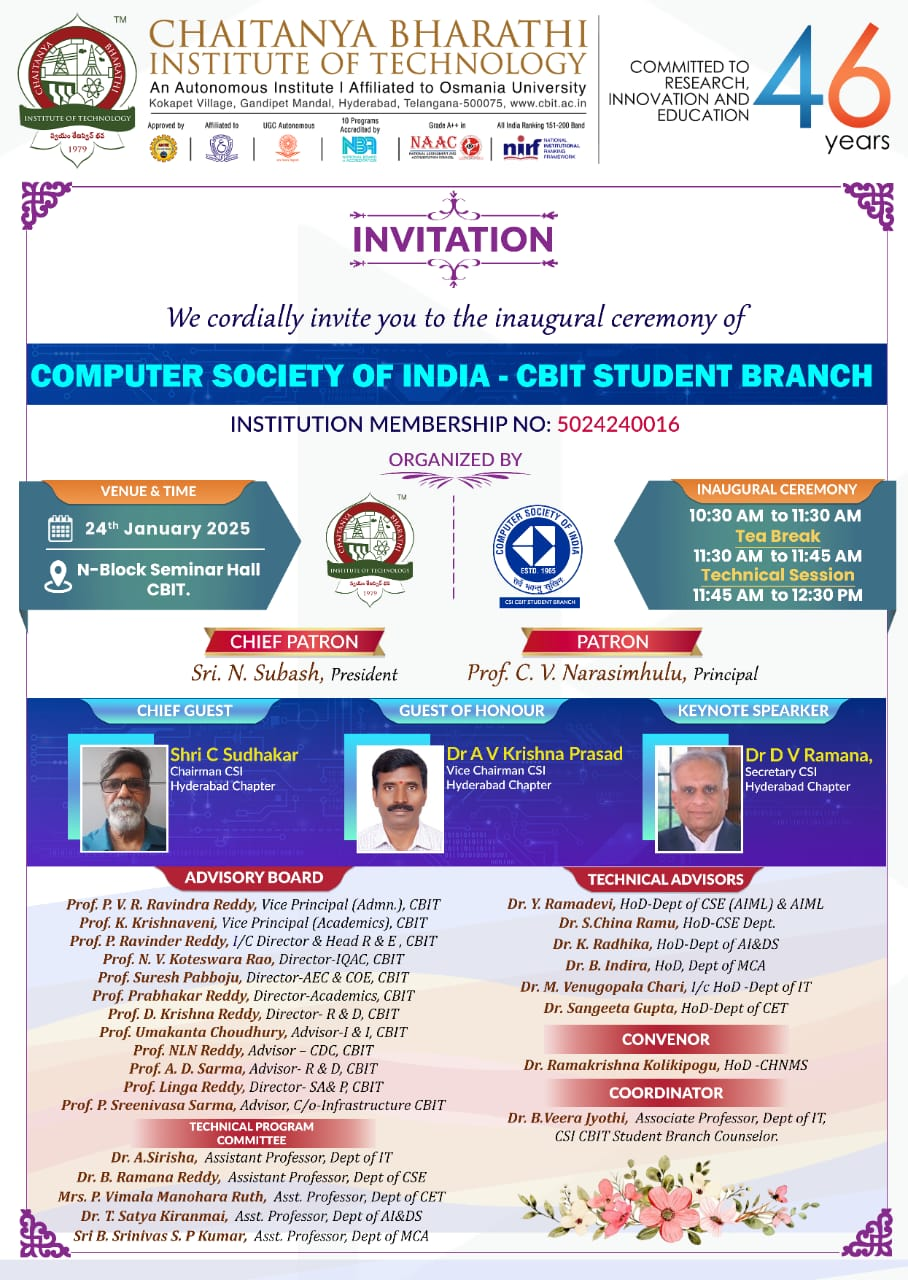
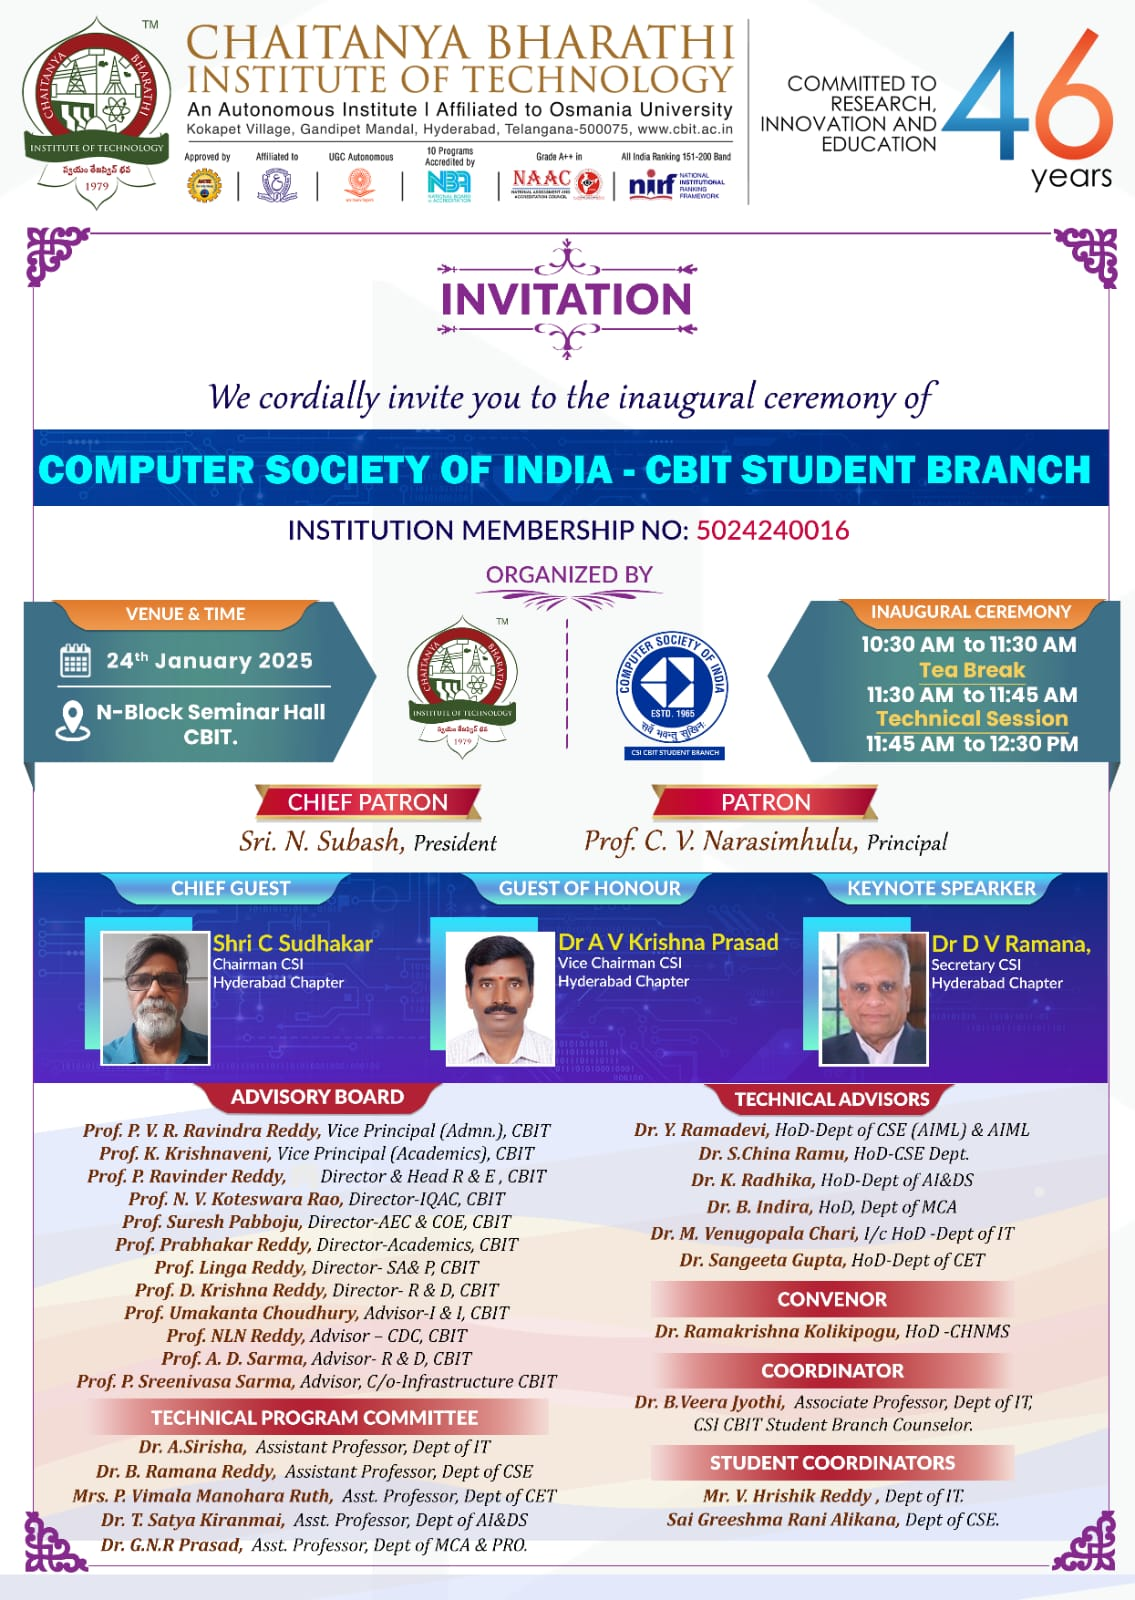
Updated

diff --git a/index.html b/index.html
@@ -301,6 +301,61 @@
         }
       </style>
 
+      <section id="speakers" class="wow fadeInUp">
+        <div class="container">
+          <div class="section-header">
+            <h2>Student Coordinators</h2>
+          </div>
+
+          <div class="row justify-content-center">
+            <div class="col-lg-5 col-md-6 d-flex justify-content-center">
+              <div class="speaker details-hover w-100">
+                <div class="details">
+                  <h3>
+                    <a href="speaker-details.html">Mr. V. Hrishik Reddy</a>
+                  </h3>
+                  <div class="social">
+                    <p>Dept of IT</p>
+                  </div>
+                </div>
+              </div>
+            </div>
+            <div class="col-lg-5 col-md-6 d-flex justify-content-center">
+              <div class="speaker details-hover w-100">
+                <div class="details">
+                  <h3>
+                    <a href="speaker-details.html">Sai Greeshma Rani Alikana</a>
+                  </h3>
+                  <div class="social">
+                    <p>Dept of CSE</p>
+                  </div>
+                </div>
+              </div>
+            </div>
+          </div>
+        </div>
+      </section>
+
+      <style>
+        .details-hover {
+          transition: transform 0.3s ease-in-out;
+          padding: 20px;
+          background: #f8f9fa;
+          border-radius: 10px;
+          text-align: center;
+          box-shadow: 0 4px 8px rgba(0, 0, 0, 0.1);
+          min-height: 80px; /* Increased height */
+          display: flex;
+          flex-direction: column;
+          justify-content: center;
+          width: 100%; /* Ensures full width inside col */
+        }
+        .details-hover:hover {
+          transform: scale(1.05);
+          box-shadow: 0 6px 12px rgba(0, 0, 0, 0.15);
+        }
+      </style>
+
       <!--==========================
       Schedule Section
     ============================-->
